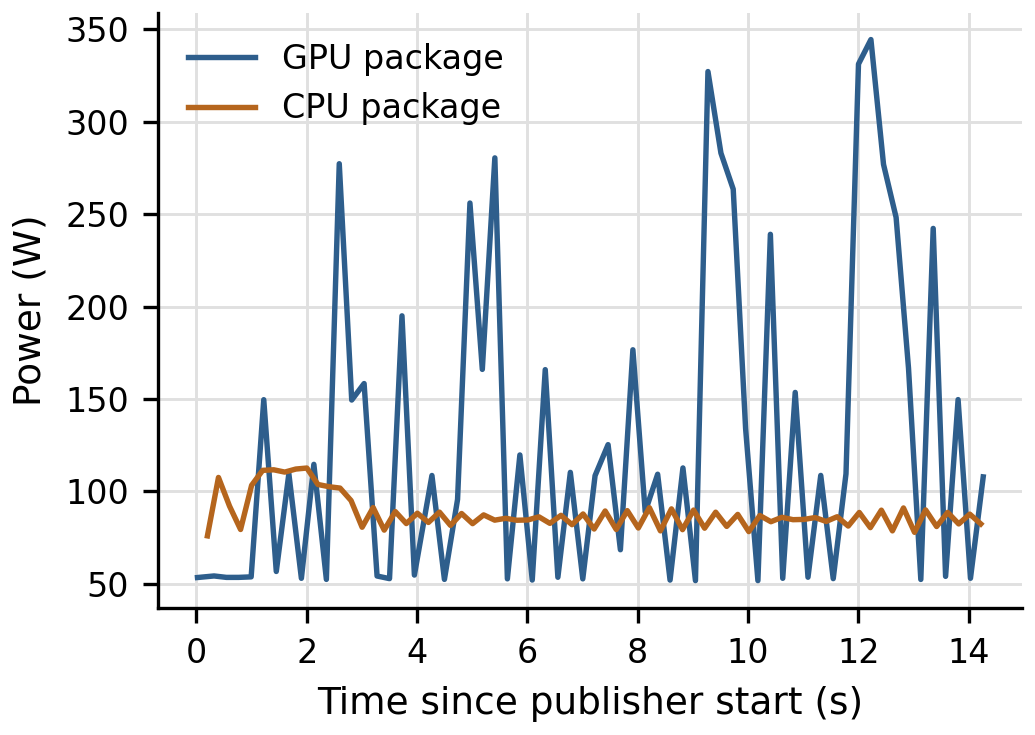
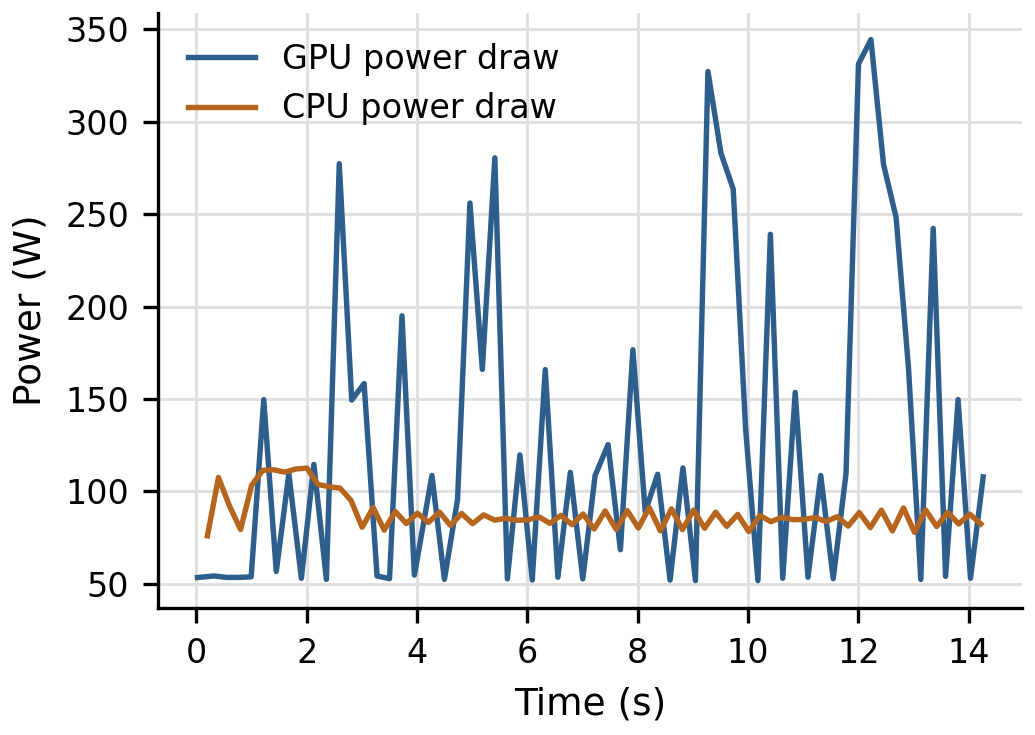
Power trace: relabel GPU/CPU power draw, x-axis Time (s); add multi-batch compare plot

Changed region(s): [[0.3092, 0.9279, 0.8348, 0.9878], [0.371, 0.0599, 0.5565, 0.1796]]

diff --git a/experiments/figures/tomogan_energy/plot_tomogan_power_trace_compare.py b/experiments/figures/tomogan_energy/plot_tomogan_power_trace_compare.py
@@ -1,0 +1,126 @@
+#!/usr/bin/env python3
+"""Compare GPU/CPU power-vs-time across batch sizes for TomoGAN.
+
+Reads several power_trace_*.csv files (one per batch size) and draws a small
+multi-panel figure (one panel per batch) sharing axes, so the GPU duty cycle
+and the flat CPU floor can be compared across batch sizes.
+
+Usage (from a bench_logs run dir, or with explicit files):
+    python plot_tomogan_power_trace_compare.py \
+        --trace 2:power_trace_b2_r1.csv \
+        --trace 4:power_trace_b4_r1.csv \
+        --trace 8:power_trace_b8_r1.csv \
+        --trace 16:power_trace_b16_r1.csv \
+        --out tomogan_power_trace_compare
+
+Or point at a directory and let it auto-pick run 1 of each batch:
+    python plot_tomogan_power_trace_compare.py --dir bench_logs/<timestamp>
+"""
+from __future__ import annotations
+
+import argparse
+import csv
+import os
+import re
+from collections import defaultdict
+from pathlib import Path
+
+os.environ.setdefault(
+    "MPLCONFIGDIR",
+    str(Path(__file__).resolve().parents[3] / ".matplotlib-cache"),
+)
+
+import matplotlib.pyplot as plt
+
+
+def read_trace(path: Path) -> dict[str, list[tuple[float, float]]]:
+    series: dict[str, list[tuple[float, float]]] = defaultdict(list)
+    with open(path, "r", encoding="utf-8", newline="") as f:
+        for row in csv.DictReader(f):
+            series[row["source"]].append((float(row["rel_time_s"]), float(row["power_w"])))
+    for s in series:
+        series[s].sort(key=lambda p: p[0])
+    return series
+
+
+def discover(dir_path: Path) -> list[tuple[int, Path]]:
+    out = []
+    for p in sorted(dir_path.glob("power_trace_b*_r1.csv")):
+        m = re.search(r"power_trace_b(\d+)_r1\.csv", p.name)
+        if m:
+            out.append((int(m.group(1)), p))
+    out.sort(key=lambda x: x[0])
+    return out
+
+
+def main() -> None:
+    ap = argparse.ArgumentParser()
+    ap.add_argument("--trace", action="append", default=[],
+                    help="batch:path, e.g. 16:power_trace_b16_r1.csv (repeatable)")
+    ap.add_argument("--dir", default=None, help="Dir with power_trace_b*_r1.csv files.")
+    ap.add_argument("--out", default=None, help="Output basename.")
+    args = ap.parse_args()
+
+    items: list[tuple[int, Path]] = []
+    for spec in args.trace:
+        batch, _, path = spec.partition(":")
+        items.append((int(batch), Path(path).resolve()))
+    if args.dir:
+        items += discover(Path(args.dir).resolve())
+    items.sort(key=lambda x: x[0])
+    if not items:
+        raise SystemExit("No traces given. Use --trace batch:path or --dir <run_dir>.")
+
+    out_base = (Path(args.out).resolve() if args.out
+                else items[-1][1].parent / "tomogan_power_trace_compare")
+
+    plt.rcParams.update({
+        "font.size": 9, "axes.labelsize": 9, "xtick.labelsize": 8,
+        "ytick.labelsize": 8, "legend.fontsize": 8,
+        "pdf.fonttype": 42, "ps.fonttype": 42,
+    })
+
+    n = len(items)
+    fig, axes = plt.subplots(1, n, figsize=(2.0 * n + 0.6, 2.5),
+                             sharex=True, sharey=True, constrained_layout=True)
+    if n == 1:
+        axes = [axes]
+
+    # Shared axis limits across panels for fair comparison.
+    max_t = max(max(t for t, _ in read_trace(p).get("gpu", [(0, 0)])) for _, p in items)
+    all_pw = []
+    parsed = []
+    for batch, path in items:
+        s = read_trace(path)
+        parsed.append((batch, s))
+        for src in ("gpu", "cpu"):
+            all_pw += [w for _, w in s.get(src, [])]
+    max_w = max(all_pw) if all_pw else 1.0
+
+    colors = {"gpu": "#2E5E8C", "cpu": "#B5651D"}
+    labels = {"gpu": "GPU power draw", "cpu": "CPU power draw"}
+    for ax, (batch, s) in zip(axes, parsed):
+        for src in ("gpu", "cpu"):
+            if src not in s:
+                continue
+            xs = [t for t, _ in s[src]]
+            ys = [w for _, w in s[src]]
+            ax.plot(xs, ys, color=colors[src], linewidth=1.2, label=labels[src])
+        ax.set_title(f"batch {batch}")
+        ax.set_xlabel("Time (s)")
+        ax.set_xlim(0, max_t * 1.02)
+        ax.set_ylim(0, max_w * 1.08)
+        ax.grid(True, color="#E8E8E8", linewidth=0.6)
+        ax.set_axisbelow(True)
+        for spine in ("top", "right"):
+            ax.spines[spine].set_visible(False)
+    axes[0].set_ylabel("Power (W)")
+    axes[-1].legend(loc="upper right", frameon=False)
+
+    for ext in ("pdf", "png"):
+        fig.savefig(out_base.with_suffix(f".{ext}"), dpi=300)
+        print(out_base.with_suffix(f".{ext}"))
+
+
+if __name__ == "__main__":
+    main()

diff --git a/experiments/figures/tomogan_energy/plot_tomogan_power_trace.py b/experiments/figures/tomogan_energy/plot_tomogan_power_trace.py
@@ -59,7 +59,7 @@ def main() -> None:
 
     fig, ax = plt.subplots(figsize=(3.45, 2.45), constrained_layout=True)
     colors = {"gpu": "#2E5E8C", "cpu": "#B5651D"}
-    labels = {"gpu": "GPU package", "cpu": "CPU package"}
+    labels = {"gpu": "GPU power draw", "cpu": "CPU power draw"}
     for source in ("gpu", "cpu"):
         if source not in series:
             continue
@@ -67,7 +67,7 @@ def main() -> None:
         ys = [w for _, w in series[source]]
         ax.plot(xs, ys, color=colors[source], linewidth=1.3, label=labels[source])
 
-    ax.set_xlabel("Time since publisher start (s)")
+    ax.set_xlabel("Time (s)")
     ax.set_ylabel("Power (W)")
     ax.grid(True, color="#E0E0E0", linewidth=0.7)
     ax.set_axisbelow(True)
